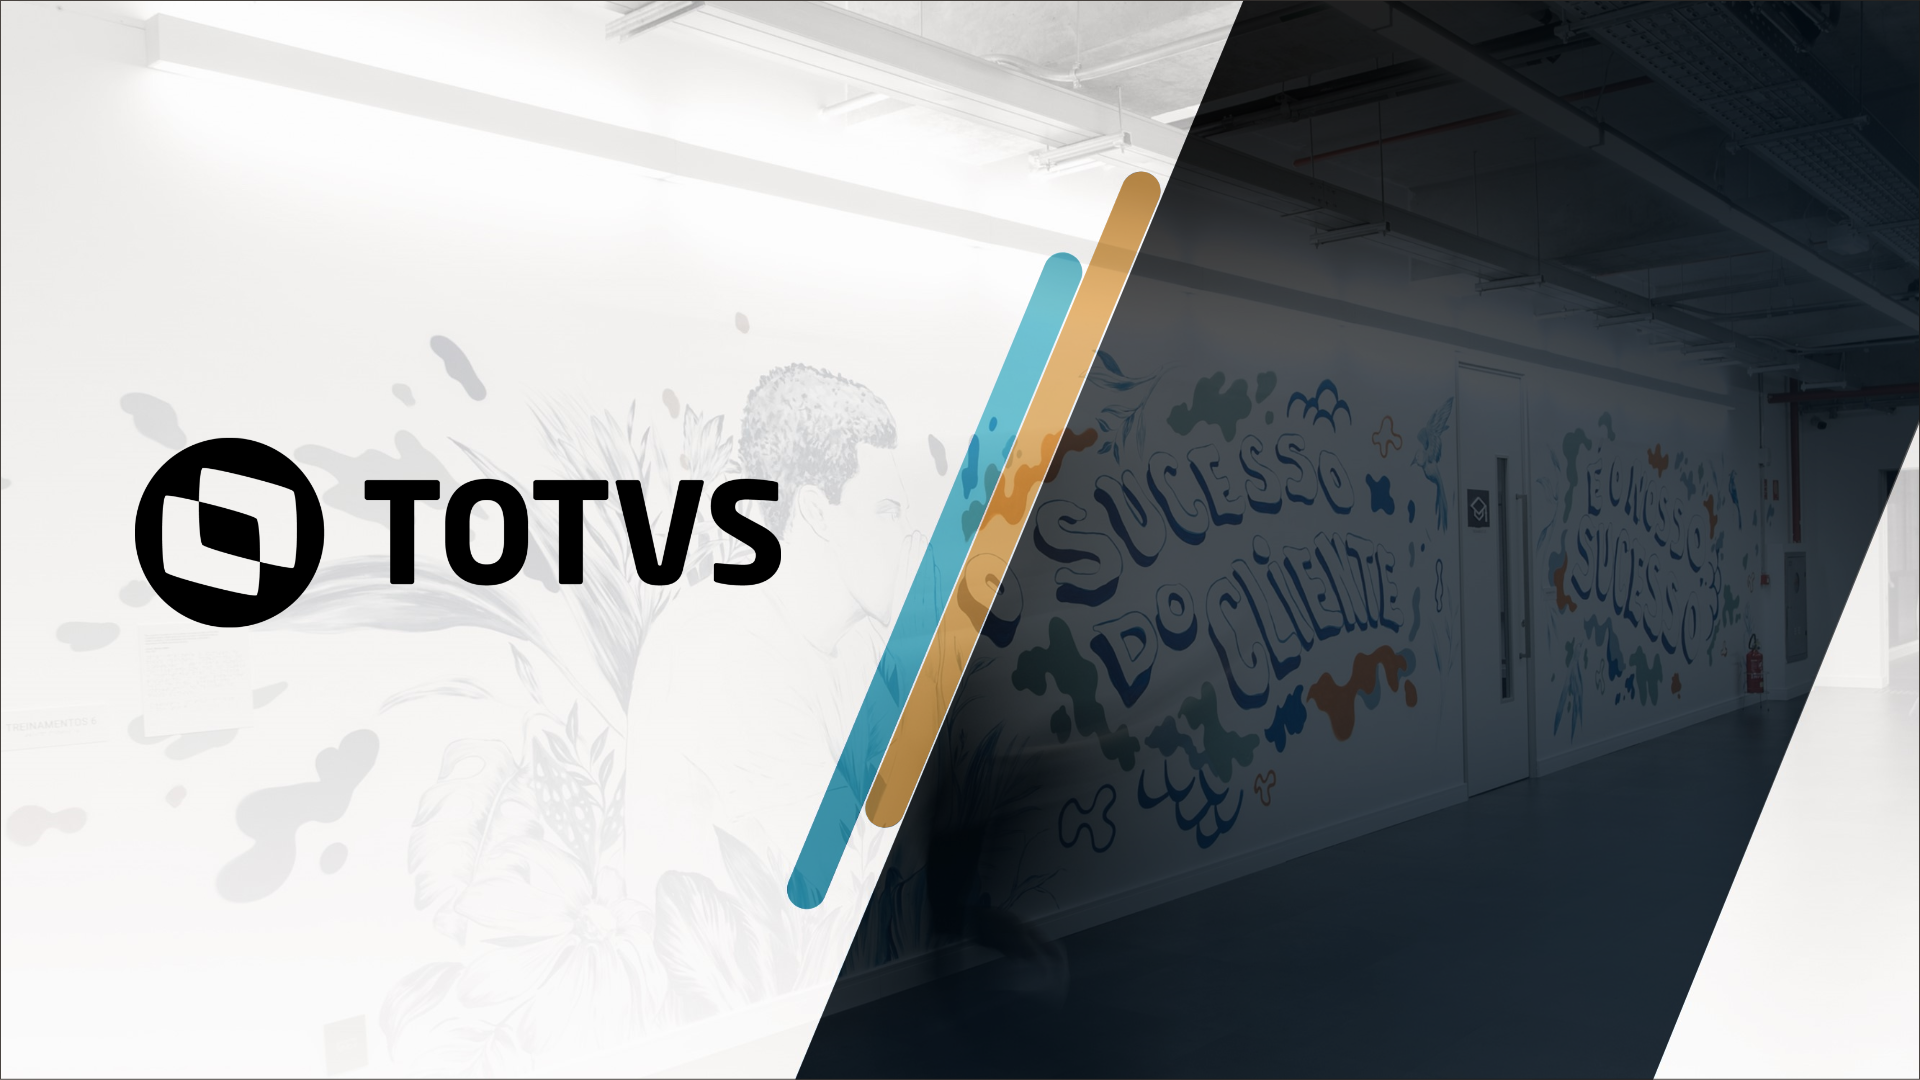
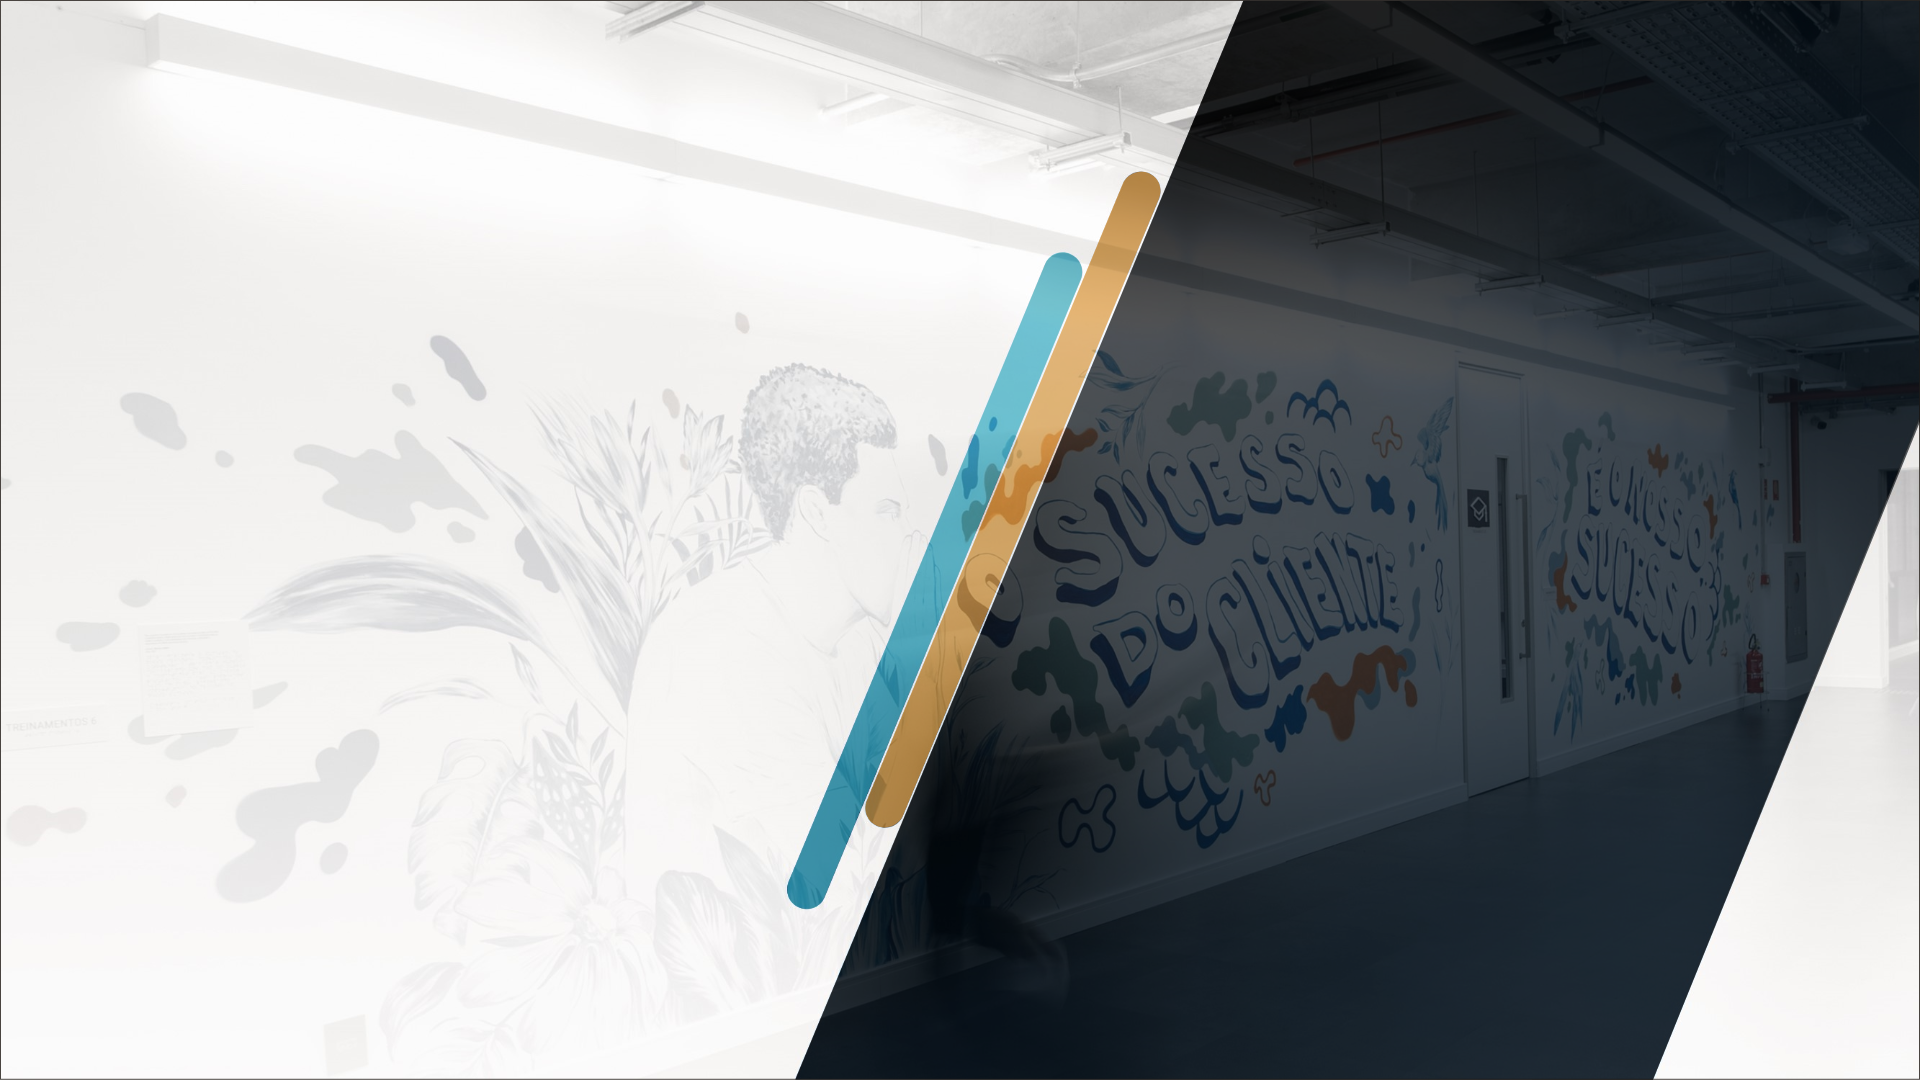
Pop da tela de login funcionando

Changed region(s): [[0.0625, 0.3972, 0.4062, 0.5806]]

diff --git a/Conecta/src/main/resources/templates/login.html b/Conecta/src/main/resources/templates/login.html
@@ -4,29 +4,77 @@
 <head>
 <meta charset="UTF-8">
 <meta name="viewport" content="width=device-width, initial-scale=1.0">
-    
-<title> Conecta | Login</title>
 
-<link rel="icon" type="imagem/png" href="../static/img/logo.png" th:href="@{/img/logo.png}"/>
-    
-<link rel="stylesheet" type="text/css" href="../static/css/login.css" th:href="@{/css/login.css}" />
+<title>Conecta | Login</title>
+
+<link rel="icon" type="imagem/png" href="../static/img/aba.png"
+	th:href="@{/img/logo.png}" />
+
+<link rel="stylesheet" type="text/css" href="../static/css/login.css"
+	th:href="@{/css/login.css}" />
+
+<!-- Bootstrap -->
+<link rel="stylesheet"
+	href="https://stackpath.bootstrapcdn.com/bootstrap/4.3.1/css/bootstrap.min.css"
+	integrity="sha384-ggOyR0iXCbMQv3Xipma34MD+dH/1fQ784/j6cY/iJTQUOhcWr7x9JvoRxT2MZw1T"
+	crossorigin="anonymous">
+<script src="https://code.jquery.com/jquery-3.3.1.slim.min.js"
+	integrity="sha384-q8i/X+965DzO0rT7abK41JStQIAqVgRVzpbzo5smXKp4YfRvH+8abtTE1Pi6jizo"
+	crossorigin="anonymous"></script>
+<script
+	src="https://cdnjs.cloudflare.com/ajax/libs/popper.js/1.14.7/umd/popper.min.js"
+	integrity="sha384-UO2eT0CpHqdSJQ6hJty5KVphtPhzWj9WO1clHTMGa3JDZwrnQq4sF86dIHNDz0W1"
+	crossorigin="anonymous"></script>
+<script
+	src="https://stackpath.bootstrapcdn.com/bootstrap/4.3.1/js/bootstrap.min.js"
+	integrity="sha384-JjSmVgyd0p3pXB1rRibZUAYoIIy6OrQ6VrjIEaFf/nJGzIxFDsf4x0xIM+B07jRM"
+	crossorigin="anonymous"></script>
 
 
 </head>
-<body>
-    
-	<div id="divForm">
-		<form name ="formLogin" id="formLogin" action="/login" method="post">
-				<input name="username" id="email" placeholder="Email" type="email" class="borda focus" maxlength="45" required oninvalid="this.setCustomValidity('Digite um e-mail válido. Ex.:exemplo@email.com')" 
-onchange="try{setCustomValidity('')}catch(e){}" />
-              <br><br>
-				<input name="password" id="password" type="password"  placeholder="Senha" class="borda focus" maxlength="45" required oninvalid="this.setCustomValidity('Campo não pode ser vazio')" onchange="try{setCustomValidity('')}catch(e){}"/>
-                <br><br>
-				<button name="Button" class="button border">Login</button>
-			<input type="hidden" th:name="${_csrf.parameterName}"
-				th:value="${_csrf.token}" />
-		</form>
+<body onload="aberturaDoPopUp()">
+	<div class="modal fade" id="avisoModal">
+		<div class="modal-dialog modal-sm">
+			<div class="modal-content">
+				<div id="cabecalhoModal" class="modal-header">
+					<h5>Aviso:</h5>
+				</div>
+				<div id="corpoModal" class="modal-body">
+					<p>Desculpe mas não conseguimos encontrar sua contar 😕</p>
+				</div>
+				<div class="modal-footer">
+					<button onclick="fecharPopUp" class="btn btn-default" value="Close"></button>
+				</div>
+			</div>
+		</div>
 	</div>
+	<img alt="TOTVS" id="logoTotvs" th:src="@{/img/nomeProjetoPreto.png}">
+	<form name="formLogin" id="formLogin" action="/login" method="post">
+		<input name="username" id="email" placeholder="Email" type="email"
+			class="borda focus" maxlength="45" required
+			oninvalid="this.setCustomValidity('Digite um e-mail válido. Ex.:exemplo@email.com')"
+			onchange="try{setCustomValidity('')}catch(e){}" /> <br>
+		<br> <input name="password" id="password" type="password"
+			placeholder="Senha" class="borda focus" maxlength="45" required
+			oninvalid="this.setCustomValidity('Campo não pode ser vazio')"
+			onchange="try{setCustomValidity('')}catch(e){}" /> <br>
+		<br>
+		<button id="btnLogin" name="Button" class="button border">Login</button>
+		<input type="hidden" th:name="${_csrf.parameterName}"
+			th:value="${_csrf.token}" />
+	</form>
+	<script type="text/javascript">
+	
+	function aberturaDoPopUp() {
+		var url_atual = window.location.href
 
+		var erroAoLogar = url_atual.indexOf("error")
+
+		if (erroAoLogar != -1) {
+			$("#avisoModal").modal('show');
+		}
+	}
+		
+	</script>
 </body>
 </html>

diff --git a/Conecta/src/main/resources/static/css/login.css b/Conecta/src/main/resources/static/css/login.css
@@ -20,6 +20,12 @@ body{
     */
 }
 
+#logoTotvs{
+	position: relative;
+    top: 40vh;
+    left: 5vw;
+}
+
 input{
     border-radius: 30px;
     height: 2.5vw;
@@ -31,9 +37,10 @@ input{
     font-size: 15px;
     font-family: Tahoma;
     outline: 0;
+    padding-left: 60px;
 }
 
-button{    
+#btnLogin{    
     background: #37B6C4;
     font-size: 1.5vw;
     font-family: Tahoma;
@@ -42,14 +49,17 @@ button{
     height: 3.4vw;
     width: 13vw;
     cursor: pointer;
-    border-width: 3px;
-    border-style: solid;
-    border-color:#397E88;
-    margin-left: 13%;
+    border-width: 3px !important;
+    border-style: solid !important;
+    border-color:#397E88 !important;
     text-align: center;
-    padding-left: 2%;
-    margin-left: 15%;
     outline: 0;
+}
+
+#btnLogin:hover{
+	border-color: #EA9B3E !important;
+	opacity: 1;
+	background-color:#EA9B3E;   
 }
 
 #divForm
@@ -76,7 +86,6 @@ button{
     background-repeat: no-repeat;
     background-size: 8% 69%;
     background-position: 5%;
-    padding-left:10%; 
     
 }
 #password
@@ -85,19 +94,17 @@ button{
     background-repeat: no-repeat;
     background-size: 9% 53%;
     background-position: 5%;
-    padding-left:10%; 
     
 }
-Button:hover
-{
-border-color: #EA9B3E;
-opacity: 1;
-background-color:#EA9B3E;   
-    
-}
+
 #formLogin{
-        margin-left: 30%;
-    margin-top: 44%;
+    align-items: center;
+    text-align: center;
+    width: 500px;
+    float:right;
+    position: relative;
+    top: 40vh;
+    right: 9.6vw;
 }
 .borda:hover
 {
